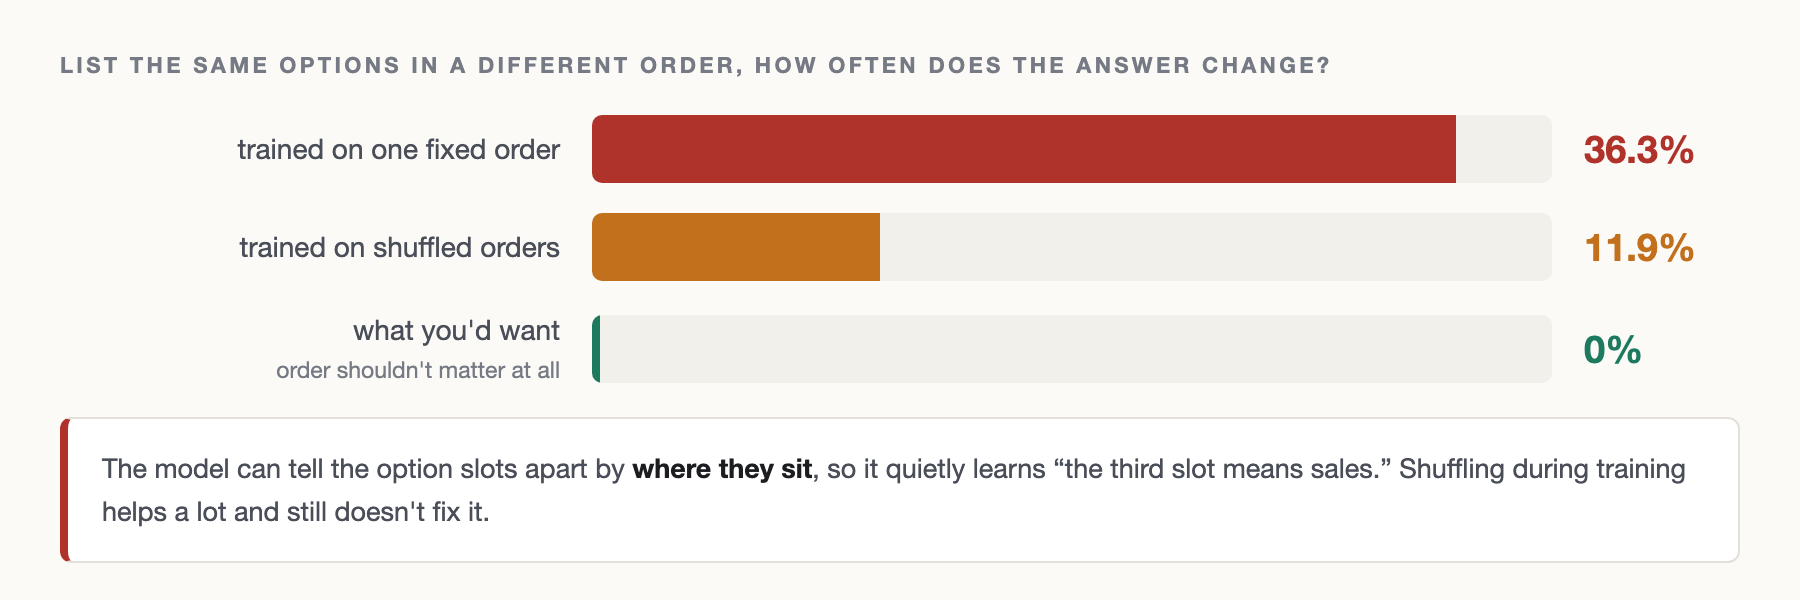
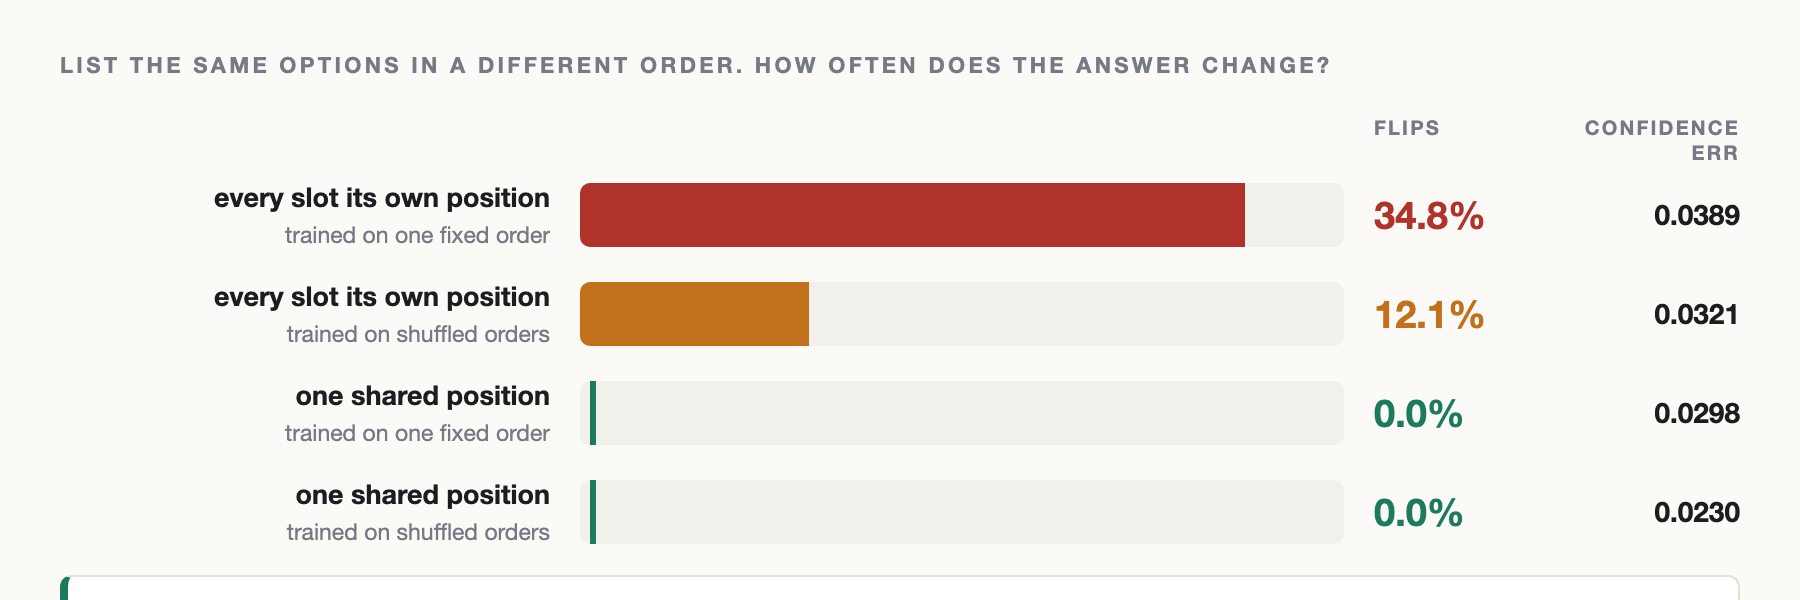
blog: the order-sensitivity section now ends with a fix
Reframes the section. Reordering the options flipped a third of answers, and
the post previously left that as a limitation of the design. It is not: it
is a positional encoding artefact. Every option slot carried its own learned
position, so the model could learn "slot three means sales" rather than
reading the word there.

Shuffling options during training takes away the incentive but not the
ability, which is why it stops at 12%. Giving every option slot the same
position takes away the ability, and flips go to exactly zero, holding on an
untrained model to five decimal places because it follows from the
architecture.

Accuracy is unchanged and confidence error improves 0.0389 to 0.0230.

Figures and numbers now all come from one run, so the earlier 36.3%/11.9%
pair is replaced by 34.8%/12.1% from the same four-way comparison.

diff --git a/blog/rebuilding-jev/fig/order.html b/blog/rebuilding-jev/fig/order.html
@@ -1,22 +1,53 @@
 <!doctype html><meta charset="utf-8"><style>@import "_base.css";
 .wrap{width:900px}
-.row{display:flex;align-items:center;gap:16px;margin-bottom:15px}
-.lab{flex:0 0 250px;font-size:14px;color:var(--ink-2);text-align:right;line-height:1.35}
-.track{flex:1;height:34px;background:var(--soft);border-radius:5px;overflow:hidden}
+.row{display:flex;align-items:center;gap:15px;margin-bottom:13px}
+.lab{flex:0 0 245px;font-size:13.5px;color:var(--ink-2);text-align:right;line-height:1.35}
+.lab b{color:var(--ink)}
+.lab .s{font-size:11.5px;color:var(--ink-3)}
+.track{flex:1;height:32px;background:var(--soft);border-radius:5px;overflow:hidden;position:relative}
 .track i{display:block;height:100%}
-.val{flex:0 0 78px;font-size:19px;font-weight:700}
-.sub{font-size:11.5px;color:var(--ink-3)}
-.verdict{background:var(--card);border:1px solid var(--rule);border-left:4px solid var(--no);
-         border-radius:6px;padding:14px 17px;font-size:13.5px;line-height:1.6;color:var(--ink-2);margin-top:8px}
+.track .zero{position:absolute;left:5px;top:0;bottom:0;width:3px;background:var(--ok)}
+.val{flex:0 0 72px;font-size:19px;font-weight:700}
+.ece{flex:0 0 96px;font-size:12px;color:var(--ink-3);text-align:right}
+.ece b{font-size:14px;color:var(--ink)}
+.hd{display:flex;gap:15px;margin-bottom:7px;font-size:10px;letter-spacing:.11em;
+    text-transform:uppercase;color:var(--ink-3);font-weight:700}
+.hd .a{flex:0 0 245px} .hd .b{flex:1} .hd .c{flex:0 0 72px} .hd .d{flex:0 0 96px;text-align:right}
+.verdict{background:var(--card);border:1px solid var(--rule);border-left:4px solid var(--ok);
+         border-radius:6px;padding:14px 17px;font-size:13.5px;line-height:1.6;color:var(--ink-2);margin-top:6px}
 .verdict b{color:var(--ink)}
 </style>
 <div class="wrap">
-  <div class="ttl">List the same options in a different order, how often does the answer change?</div>
-  <div class="row"><div class="lab">trained on one fixed order</div>
-    <div class="track"><i style="width:90%;background:#B0332B"></i></div><div class="val" style="color:#B0332B">36.3%</div></div>
-  <div class="row"><div class="lab">trained on shuffled orders</div>
-    <div class="track"><i style="width:30%;background:#C2701C"></i></div><div class="val" style="color:#C2701C">11.9%</div></div>
-  <div class="row"><div class="lab">what you'd want<br><span class="sub">order shouldn't matter at all</span></div>
-    <div class="track"><i style="width:0.8%;background:#1D7A5F"></i></div><div class="val" style="color:#1D7A5F">0%</div></div>
-  <div class="verdict">The model can tell the option slots apart by <b>where they sit</b>, so it quietly learns &ldquo;the third slot means sales.&rdquo; Shuffling during training helps a lot and still doesn't fix it.</div>
+  <div class="ttl">List the same options in a different order. How often does the answer change?</div>
+  <div class="hd"><div class="a"></div><div class="b"></div><div class="c">flips</div><div class="d">confidence err</div></div>
+
+  <div class="row">
+    <div class="lab"><b>every slot its own position</b><br><span class="s">trained on one fixed order</span></div>
+    <div class="track"><i style="width:87%;background:#B0332B"></i></div>
+    <div class="val" style="color:#B0332B">34.8%</div><div class="ece"><b>0.0389</b></div>
+  </div>
+
+  <div class="row">
+    <div class="lab"><b>every slot its own position</b><br><span class="s">trained on shuffled orders</span></div>
+    <div class="track"><i style="width:30%;background:#C2701C"></i></div>
+    <div class="val" style="color:#C2701C">12.1%</div><div class="ece"><b>0.0321</b></div>
+  </div>
+
+  <div class="row">
+    <div class="lab"><b>one shared position</b><br><span class="s">trained on one fixed order</span></div>
+    <div class="track"><span class="zero"></span></div>
+    <div class="val" style="color:#1D7A5F">0.0%</div><div class="ece"><b>0.0298</b></div>
+  </div>
+
+  <div class="row">
+    <div class="lab"><b>one shared position</b><br><span class="s">trained on shuffled orders</span></div>
+    <div class="track"><span class="zero"></span></div>
+    <div class="val" style="color:#1D7A5F">0.0%</div><div class="ece"><b>0.0230</b></div>
+  </div>
+
+  <div class="verdict">
+    Give every option slot the <b>same</b> position and the answer stops depending on order entirely.
+    Not 0.3%, not nearly zero: <b>exactly zero</b>, because permuting the options now permutes the scores
+    and changes nothing else. Accuracy is untouched and the confidence error <b>improves by 40%</b>.
+  </div>
 </div>

diff --git a/blog/rebuilding-jev/index.html b/blog/rebuilding-jev/index.html
@@ -177,20 +177,28 @@
 <section>
   <h2>What I found</h2>
 
-  <p>Three things, one good and two that would change how I built this for real.</p>
+  <p>Three things. One good, one a bug with a one-line fix, and one that still stands as a real limitation.</p>
 </section>
 
 <section>
-  <h2>Why the answer order broke it</h2>
+  <h2>The answer order broke it, and then it did not</h2>
 
   <p>I listed the same options in a different order and asked again. More than a third of the answers changed.</p>
 
+  <p>The cause turned out to be dull. Every position in the input carries its own learned marker, and the option slots are no exception, so the model can tell slot three from slot four. Nothing stops it learning "slot three means sales" instead of reading the word sitting there, and that is what it did.</p>
+
+  <p>The obvious repair is to shuffle the options during training, so the model never sees a stable order to memorise. That helps a lot and stops well short of fixing it: flips fall from 35% to 12%. Shuffling takes away the <em>incentive</em> to key on position. It leaves the <em>ability</em> untouched.</p>
+
+  <p>So take the ability away. Give every option slot the same position marker. The slots then differ only by the word in them, permuting the options permutes the scores, and nothing else moves.</p>
+
   <figure>
-    <img src="/blog/rebuilding-jev/img/order.png" alt="Bar chart: trained on a fixed option order, 36.3% of answers flip when reordered; trained on shuffled orders, 11.9%; the ideal is 0%." width="900" loading="lazy">
-    <figcaption><b>Position, not meaning.</b> The model tells the option slots apart by where they sit, so it learns &ldquo;the third slot means sales.&rdquo;</figcaption>
+    <img src="/blog/rebuilding-jev/img/order.png" alt="Four configurations compared. With a separate position per option slot, 34.8% of answers flip when the options are reordered, or 12.1% if training shuffles them. With one shared position, flips are exactly 0.0% either way, and the confidence error improves from 0.0389 to 0.0230." width="900" loading="lazy">
+    <figcaption><b>Exactly zero, not nearly zero.</b> With a shared position the model has no way to represent "which slot this is", so order-invariance holds by construction rather than because training taught it.</figcaption>
   </figure>
 
-  <p>This is the result that changed what I&rsquo;d build. Picking answers from a list you supply at call time is the most attractive thing about this design, and it is much shakier than it looks.</p>
+  <p>It is worth being precise about what "exactly" means here. This is not a small number that rounds down. On an untrained model, permuting the options and permuting the outputs back gives identical scores to five decimal places. The property is a consequence of the architecture, so it holds before any training and cannot drift afterwards.</p>
+
+  <p>The part I did not expect: it is free. Accuracy does not move, and the confidence error <em>improves</em> by about 40%, from 0.0389 to 0.0230. Taking away a shortcut the model was using made it better rather than worse, which in hindsight is what you would hope. Memorising slot positions was never going to generalise.</p>
 </section>
 
 <section>
@@ -269,7 +277,7 @@ Do the answer options change between calls?
 
   <p>This is a 206,000-parameter model on invented words. It does not tell you how Jev is actually built, because TypeSafe has confirmed nothing. What I measured is how this shape of model behaves on a task I made up, and a bigger one on real text may well behave differently.</p>
 
-  <p>What it does establish is narrower and still useful. Training on probabilities rather than labels reaches the best score the task allows and stays honest about its confidence, across every difficulty I tried. Answer lists that change between calls work for the answer and not for the confidence, which is the opposite of what makes the design attractive.</p>
+  <p>What it does establish is narrower and still useful. Training on probabilities rather than labels reaches the best score the task allows and stays honest about its confidence, across every difficulty I tried. Answer lists that change between calls are order-sensitive until you give the option slots a shared position, after which they are not. Their confidence still does not survive an answer list the model has never seen, and that one I have not solved.</p>
 
   <p>Finding that out cost twenty cents.</p>
 
